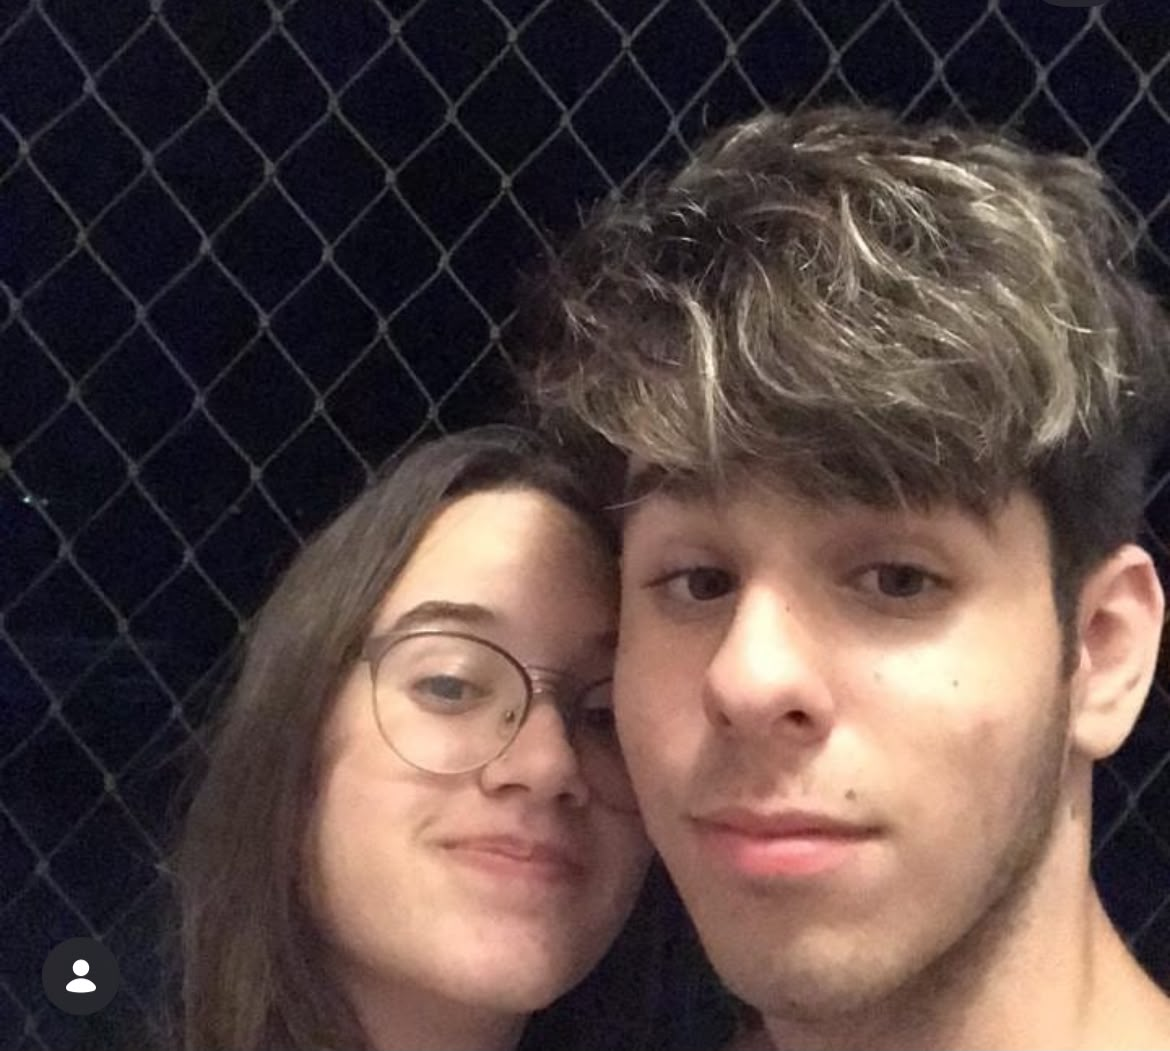
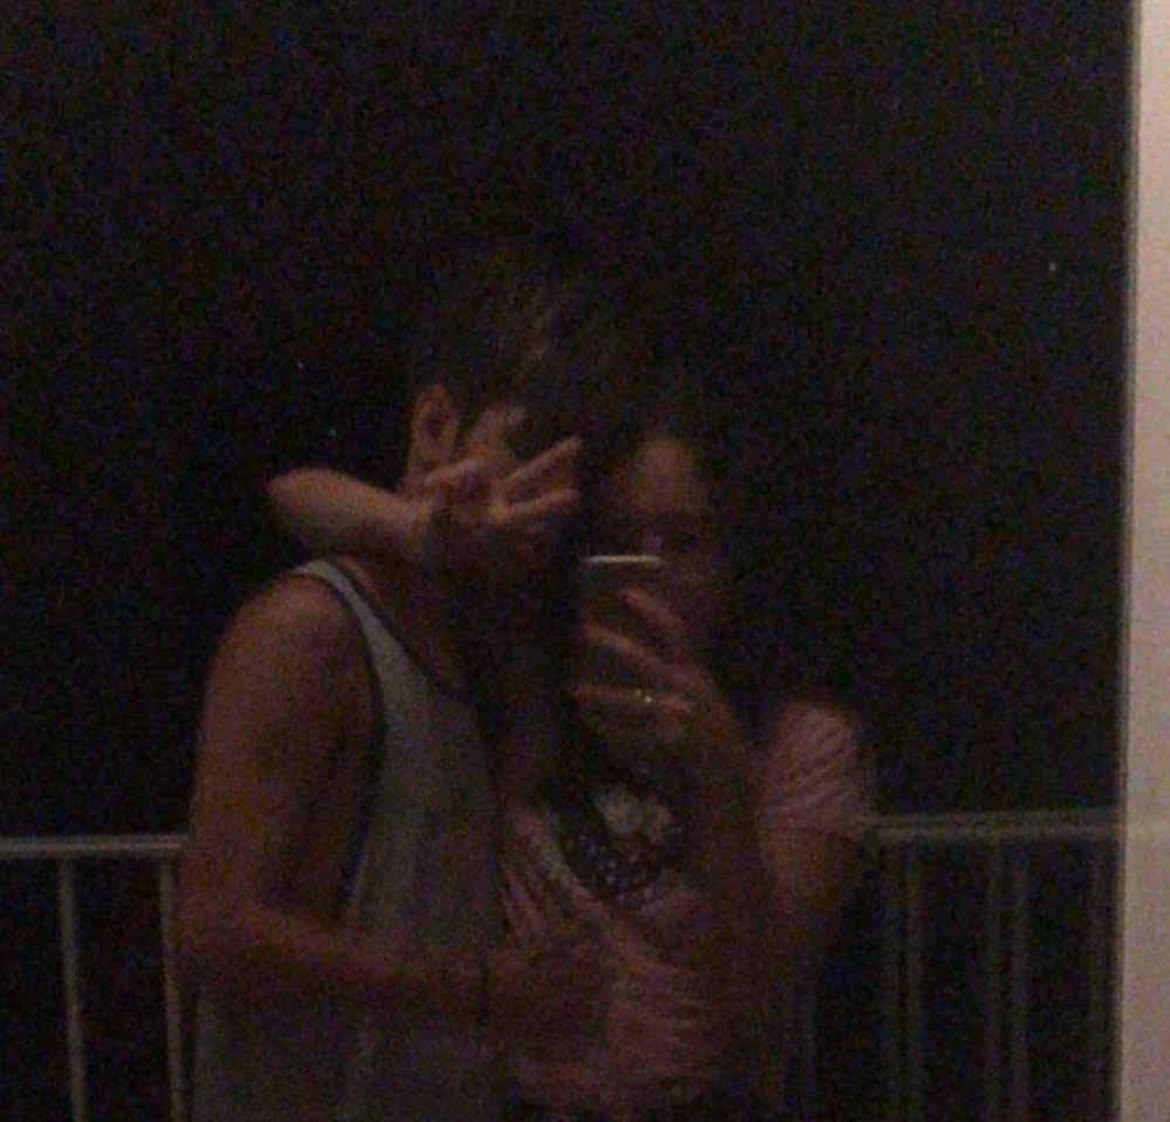
Atualiza respostas, textos e foto da praia

diff --git a/dados.js b/dados.js
@@ -1,4 +1,4 @@
-/* ==========================================================
+ /* ==========================================================
    dados.js — TODO o conteúdo da caçada fica aqui.
    Edite à vontade; o resto do código lê deste arquivo.
 
@@ -72,17 +72,19 @@ Sem pressa: dá pra parar e voltar quando quiser.`,
     {
       pergunta: "Qual a data que começamos a namorar?",
       respostas: [
[4 lines of base64/hex data omitted]
 ],
       dica: "Aniversário do seu BESTIE MODA",
       recompensa: {
         tipo: "carta",
         titulo: "Meu amor,",
-        texto: `Lembro direitinho daquele mês. Eu estava nervoso, você estava rindo de mim, e eu soube ali que queria ouvir essa risada pelo resto da vida.
+        texto: `Lembro direitinho daquele mês. Você tinha me dado um pacote de Amandita, me desesperei tanto com o gesto que tive que oficializar na hora, foi meio ruim, mas foi com a maior sinceridade do mundo. Quem sabe eu possa ter a chance de fazer um pedido melhor em breve?
 
 Obrigado por cada dia desde então. Pelos dias fáceis e pelos difíceis também.
 
-Esse é só o primeiro de muitos aniversários que eu quero comemorar do seu lado.`,
+Esse é só mais um aniversário que eu quero comemorar do seu lado.`,
         assinatura: "Com todo o meu amor, eu"
       }
     },
@@ -181,7 +183,7 @@ Esse é só o primeiro de muitos aniversários que eu quero comemorar do seu lad
     titulo: "Você encontrou todos os tesouros",
     mensagem: `Mas o maior tesouro dessa história é você.
 
-Feliz aniversário. Obrigado por existir e por me escolher todos os dias.
+Feliz aniversário. Obrigado por existir e fazer parte da minha vida e da minha história. Que isso continue por toda eternidade.
 Te amo mais do que cabe nesse site.`,
     assinatura: "Seu, para sempre",
     conquista: "Amor da minha vida"

diff --git a/index.html b/index.html
@@ -10,7 +10,7 @@
   <link rel="preconnect" href="https://fonts.googleapis.com">
   <link rel="preconnect" href="https://fonts.gstatic.com" crossorigin>
   <link href="https://fonts.googleapis.com/css2?family=Caveat:wght@400;600&family=Cormorant+Garamond:ital,wght@0,500;0,600;1,500;1,600&family=Karla:wght@400;500;700&display=swap" rel="stylesheet">
-  <link rel="stylesheet" href="css/estilo.css?v=2">
+  <link rel="stylesheet" href="css/estilo.css?v=3">
 </head>
 <body>
 
@@ -129,8 +129,8 @@
   <audio id="audio" loop preload="none"></audio>
 
   <!-- Ao mudar algum arquivo, aumente o ?v= para os celulares baixarem a versão nova -->
-  <script src="dados.js?v=2"></script>
-  <script src="js/cripto.js?v=2"></script>
-  <script src="js/app.js?v=2"></script>
+  <script src="dados.js?v=3"></script>
+  <script src="js/cripto.js?v=3"></script>
+  <script src="js/app.js?v=3"></script>
 </body>
 </html>
